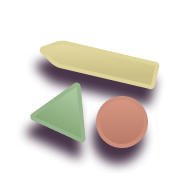
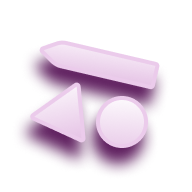
better colors for the ~vibes~

Changed region(s): [[0.1562, 0.1875, 0.8438, 0.8438]]

diff --git a/base.css b/base.css
@@ -8,7 +8,7 @@ h1, h2, h3, h4, h5 {
     font-family: 'M PLUS Rounded 1c', sans-serif;
     font-weight: 900;
     letter-spacing: -.05rem;
-    color: rgb(86, 72, 86);
+    color: rgb(123, 54, 123);
 }
 
 p {
@@ -19,7 +19,7 @@ p {
 }
 
 button {
-    background-color: rgb(86, 72, 86);
+    background-color: rgb(123, 54, 123);
     color: white;
     border-radius: 16px;
     font-size: 16px;
@@ -27,22 +27,22 @@ button {
     font-weight: 900;
     padding: 1rem 2rem;
     border: none;
-    box-shadow: 2px 2px 20px 12px rgba(0,0,0,0.20);
+    box-shadow: 2px 2px 20px 12px rgba(103, 37, 103, 0.2);
     transition: 0.3s ease-in-out;
 }
 
 button:hover {
-    background-color: rgb(48, 40, 48);
-    box-shadow: 2px 2px 40px 24px rgba(0,0,0,0.35);
+    background-color: rgb(84, 30, 84);
+    box-shadow: 2px 2px 40px 24px rgba(103,37,103,0.4);
     cursor: pointer;
 }
 
 a {
-    color: rgb(86, 72, 86);
+    color: rgb(123, 54, 123);
 }
 
 a:hover {
-    color: rgb(48, 40, 48);
+    color: rgb(84, 30, 84);
 }
 
 .navigation {
@@ -62,8 +62,8 @@ a:hover {
 .icon {
     width: 48px;
     height: 48px;
-    box-shadow: 2px 2px 29px 17px rgba(0,0,0,0.10);
-    background-color: rgb(86, 72, 86);
+    box-shadow: 2px 2px 16px 8px rgba(103, 37, 103, 0.15);
+    background-color: rgb(123, 54, 123);
     border-radius: 16px;
 }
 
@@ -95,12 +95,12 @@ a:hover {
     background-color: rgb(86, 72, 86);
     border-radius: 24px;
     overflow: hidden;
-    box-shadow: 2px 2px 20px 12px rgba(0,0,0,0.20);
+    box-shadow: 2px 2px 20px 12px rgba(103, 37, 103, 0.2);
     transition: box-shadow 0.3s ease-in-out;
 }
 
 .card:hover {
-    box-shadow: 2px 2px 40px 24px rgba(0,0,0,0.35);
+    box-shadow: 2px 2px 40px 24px rgba(103,37,103,0.4);
     cursor: pointer;
 }
 
@@ -128,6 +128,14 @@ a:hover {
 .link-out {
     padding: 1rem 0;
     cursor: pointer;
+}
+
+.teaser {
+    display: flex;
+    height: 100%;
+    padding: 2rem;
+    flex-direction: column;
+    justify-content: flex-start;
 }
 
 @media only screen and (max-width: 600px) {

diff --git a/index.html b/index.html
@@ -50,5 +50,25 @@
                 </div>
             </div>
         </div>
+        <div class="card">
+            <video class="preview" loop width="100%" autoplay muted>
+                <source src="002.mp4" type="video/mp4">
+            </video>
+            <div class="metadata">
+                <div class="description">
+                    <h2 class="card-title">#001</h2>
+                    <p>Arecaceae [Palm]</p>
+                </div>
+                <div class="link-out">
+                    <img src="open_in_new_white.svg" alt="open in new tab">
+                </div>
+            </div>
+        </div>
+        <div class="card">
+            <div class="teaser">
+                <h2 class="card-title">Drop 001 of ???</h2>
+                <p>Only 50 Plant Scribbles will ever be minted, but the number included in each drop will differ. Dates of future drops are tbd.</p>
+            </div>
+        </div>
     </div>
 </body>
